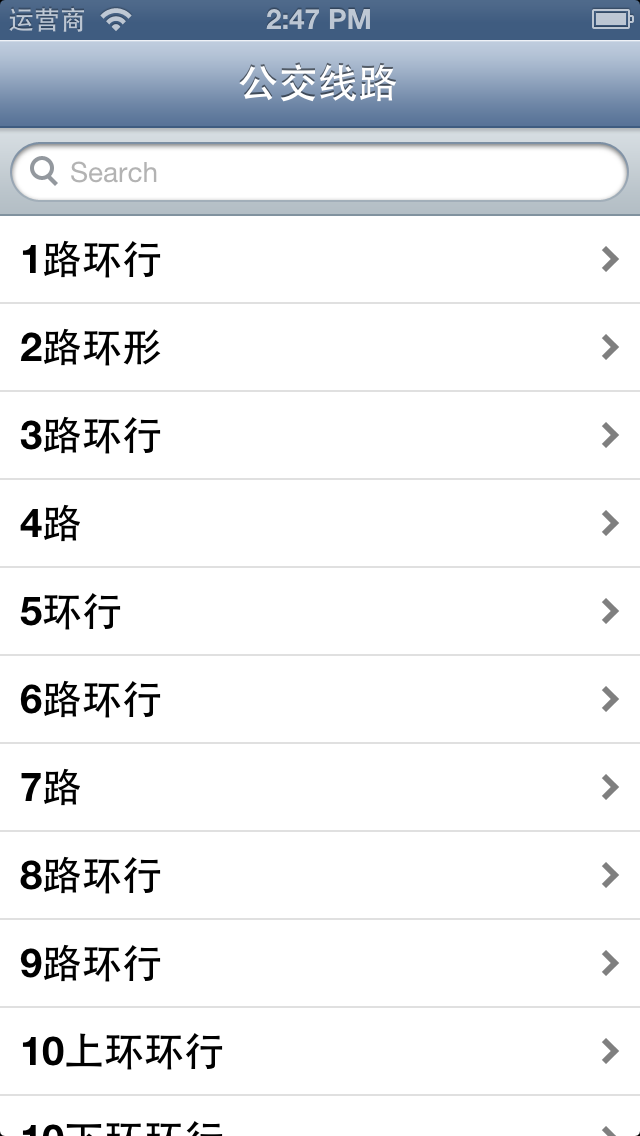
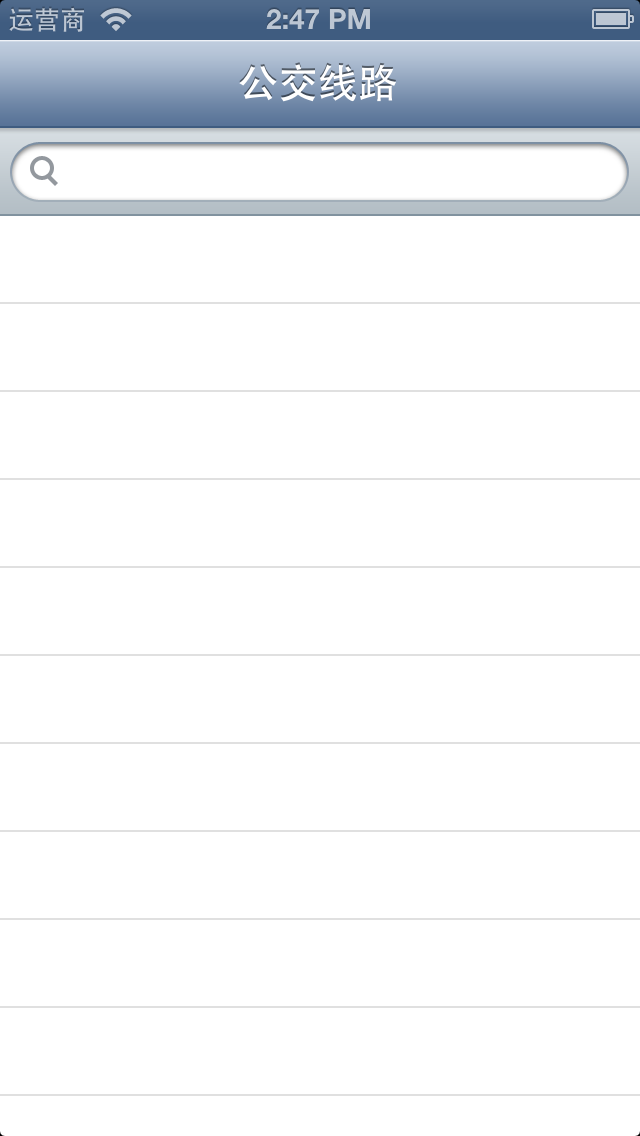
Changed loading screen. Add .gitignore.

diff --git a/Bus Time/QueryResultViewController.m b/Bus Time/QueryResultViewController.m
@@ -12,6 +12,7 @@
 #import "BusStation.h"
 #import "ODRefreshControl.h"
 #import "NSTimer+Blocks.h"
+#import "UIAlertView+Blocks.h"
 #import "BusInfoCell.h"
 
 @interface QueryResultViewController ()
